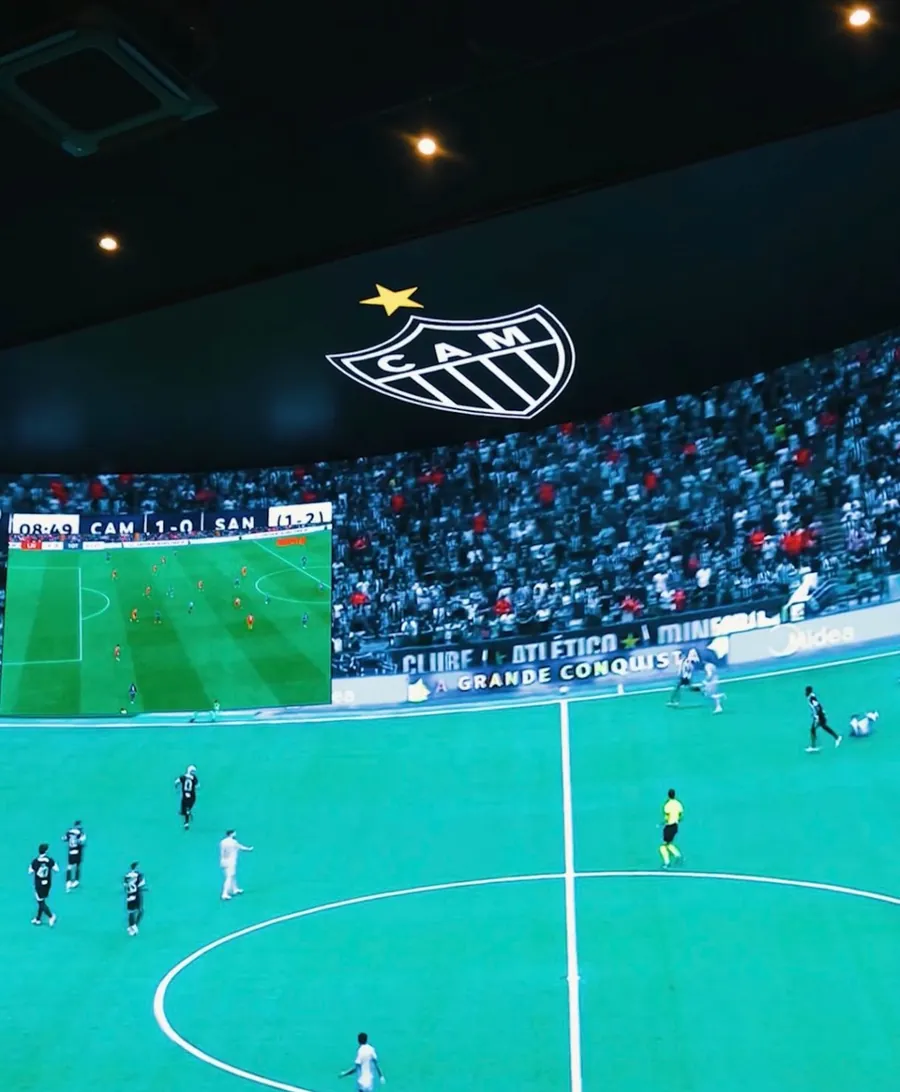
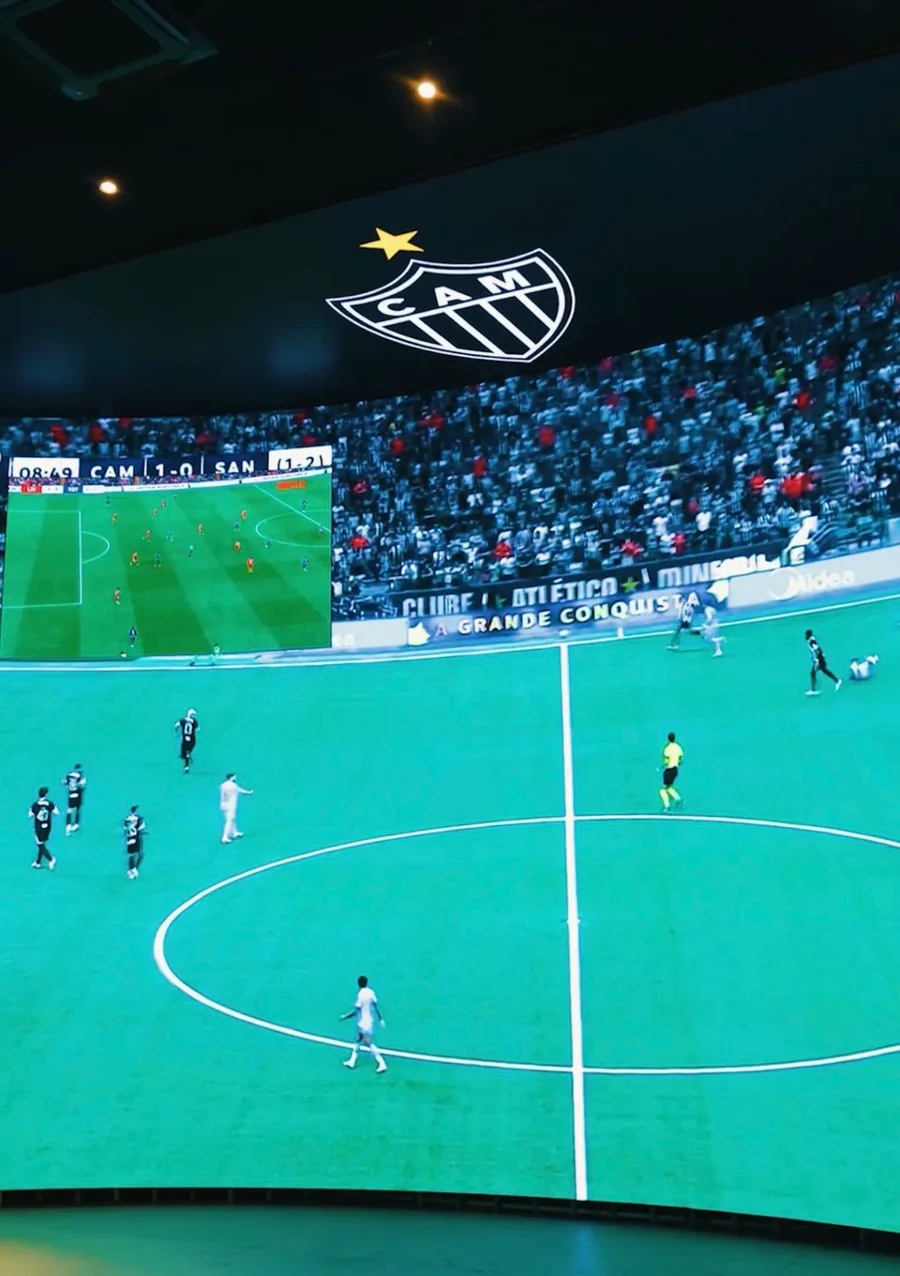
Bar da Massa: telão inteiro, sem texto por cima da foto
Claude-Session: https://claude.ai/code/session_01AsMpzjT6rvKA4BRfmGbBkw

diff --git a/index.html b/index.html
@@ -174,16 +174,8 @@ section{scroll-margin-top:84px}
 .about-photo img{position:relative;border-radius:28px;width:100%;aspect-ratio:497/603;object-fit:cover;box-shadow:0 30px 60px -34px rgba(10,26,54,.7)}
 .spot-main{position:relative}
 .spot .about-frame{isolation:isolate}
-.spot-scan{position:absolute;inset:0;z-index:1;pointer-events:none;background:repeating-linear-gradient(0deg,rgba(4,20,44,.07) 0 1px,transparent 1px 3px)}
-.spot-c{position:absolute;z-index:2;width:26px;height:26px;border:2px solid rgba(255,255,255,.85);pointer-events:none}
-.spot-c.tl{top:16px;left:16px;border-right:0;border-bottom:0;border-top-left-radius:8px}
-.spot-c.tr{top:16px;right:16px;border-left:0;border-bottom:0;border-top-right-radius:8px}
-.spot-c.bl{bottom:16px;left:16px;border-right:0;border-top:0;border-bottom-left-radius:8px}
-.spot-c.br{bottom:16px;right:16px;border-left:0;border-top:0;border-bottom-right-radius:8px}
-.spot-tag{position:absolute;z-index:2;top:26px;left:30px;display:inline-flex;align-items:center;gap:8px;background:rgba(4,20,44,.72);backdrop-filter:blur(8px);-webkit-backdrop-filter:blur(8px);color:#fff;padding:7px 12px;border-radius:999px;border:1px solid rgba(255,255,255,.18)}
-.spot-tag i{width:8px;height:8px;border-radius:50%;background:var(--red);box-shadow:0 0 0 0 rgba(209,10,32,.7);animation:spotPulse 1.8s infinite}
-@keyframes spotPulse{0%{box-shadow:0 0 0 0 rgba(209,10,32,.7)}70%{box-shadow:0 0 0 9px rgba(209,10,32,0)}100%{box-shadow:0 0 0 0 rgba(209,10,32,0)}}
-.spot-cap{position:absolute;z-index:2;left:14px;right:14px;bottom:14px;display:grid;gap:2px;padding:18px 20px;border-radius:18px;background:linear-gradient(180deg,rgba(4,20,44,.55),rgba(4,20,44,.88));backdrop-filter:blur(10px);-webkit-backdrop-filter:blur(10px);border:1px solid rgba(255,255,255,.16);color:#fff}
+.spot .about-frame img{aspect-ratio:auto;height:auto;transform:none!important}
+.spot-cap{position:relative;z-index:1;display:grid;gap:2px;margin-top:44px;padding:20px 22px;border-radius:18px;background:var(--navy);color:#fff;box-shadow:0 18px 36px -24px rgba(10,26,54,.6)}
 .spot-cap .mono{color:#FF8A96}
 .spot-cap b{font-family:var(--font-display,inherit);font-size:1.55rem;line-height:1.15;letter-spacing:-.01em}
 .spot-where{color:var(--on-navy-soft);font-size:.92rem}
@@ -191,12 +183,12 @@ section{scroll-margin-top:84px}
 .spot-stats div{display:grid;gap:2px}
 .spot-stats dt{color:var(--on-navy-soft);font-size:.66rem}
 .spot-stats dd{margin:0;font-weight:700;font-size:1.05rem}
-.spot-thumbs{display:grid;grid-template-columns:repeat(2,minmax(0,1fr));gap:12px;margin-top:40px}
+.spot-thumbs{display:grid;grid-template-columns:repeat(2,minmax(0,1fr));gap:12px;margin-top:12px}
 .about-photo .spot-thumbs img{height:auto;aspect-ratio:4/3;border-radius:16px;box-shadow:0 18px 36px -24px rgba(10,26,54,.6);transition:transform .35s var(--ease)}
 .about-photo .spot-thumbs img:hover{transform:translateY(-4px)}
 .spot-note{margin-top:12px;font-size:.86rem;color:var(--ink-soft)}
 .spot-note a{color:var(--red-deep);font-weight:600}
-@media (prefers-reduced-motion:reduce){.spot-tag i{animation:none}.about-photo .spot-thumbs img{transition:none}}
+@media (prefers-reduced-motion:reduce){.about-photo .spot-thumbs img{transition:none}}
 .mvv{display:grid;grid-template-columns:repeat(3,minmax(0,1fr));gap:16px;margin-top:clamp(44px,6vw,72px)}
 .mvv article{background:var(--card);border:1px solid var(--line-ink);border-radius:var(--radius);padding:26px 24px;display:flex;flex-direction:column;gap:12px}
 .mvv h3{font-size:1.4rem;font-weight:700}
@@ -600,20 +592,17 @@ section{scroll-margin-top:84px}
         <div class="spot-main">
           <span class="about-red" id="about-red" aria-hidden="true"></span>
           <div class="about-frame">
-            <img src="img/cliente-bardamassa-telao.webp" alt="Telão de LED curvo do Bar da Massa, na sede do Galo, transmitindo uma partida" width="497" height="603">
-            <span class="spot-scan" aria-hidden="true"></span>
-            <span class="spot-c tl" aria-hidden="true"></span><span class="spot-c tr" aria-hidden="true"></span><span class="spot-c bl" aria-hidden="true"></span><span class="spot-c br" aria-hidden="true"></span>
-            <span class="spot-tag mono"><i aria-hidden="true"></i>Cliente Vallor</span>
-            <div class="spot-cap">
-              <span class="mono">Conheça um dos nossos clientes</span>
-              <b>Bar da Massa</b>
-              <span class="spot-where">Sede do Galo · Lourdes, BH</span>
-              <dl class="spot-stats">
-                <div><dt class="mono">Painéis de LED</dt><dd><span data-count="150">150</span> m²</dd></div>
-                <div><dt class="mono">Capacidade</dt><dd><span data-count="380">380</span> pessoas</dd></div>
-              </dl>
-            </div>
+            <img src="img/cliente-bardamassa-telao.webp" alt="Telão de LED curvo do Bar da Massa, na sede do Galo, transmitindo uma partida" width="900" height="1276">
           </div>
+        </div>
+        <div class="spot-cap">
+          <span class="mono">Conheça um dos nossos clientes</span>
+          <b>Bar da Massa</b>
+          <span class="spot-where">Sede do Galo · Lourdes, BH</span>
+          <dl class="spot-stats">
+            <div><dt class="mono">Painéis de LED</dt><dd><span data-count="150">150</span> m²</dd></div>
+            <div><dt class="mono">Capacidade</dt><dd><span data-count="380">380</span> pessoas</dd></div>
+          </dl>
         </div>
         <div class="spot-thumbs">
           <img src="img/cliente-bardamassa-led.webp" alt="Painéis de LED do Bar da Massa com a marca da casa" width="560" height="420" loading="lazy">
@@ -1023,7 +1012,7 @@ section{scroll-margin-top:84px}
   var lw = split(lead, false);
   M.scroll(M.animate(lw, {opacity:[0.16,1]}, {duration:.3, delay:M.stagger(.05), ease:'linear'}), {target:lead, offset:['start 88%','end 52%']});
   var aphoto = one('.about-photo');
-  M.scroll(M.animate('.about-frame img', {y:[34,-34], scale:[1.14,1.14]}, {ease:'linear'}), {target:aphoto, offset:['start end','end start']});
+  if (!one('.spot')) M.scroll(M.animate('.about-frame img', {y:[34,-34], scale:[1.14,1.14]}, {ease:'linear'}), {target:aphoto, offset:['start end','end start']});
   M.scroll(M.animate('#about-red', {y:[-26,26], rotate:[-2,2]}, {ease:'linear'}), {target:aphoto, offset:['start end','end start']});
 
   /* linha do tempo */
